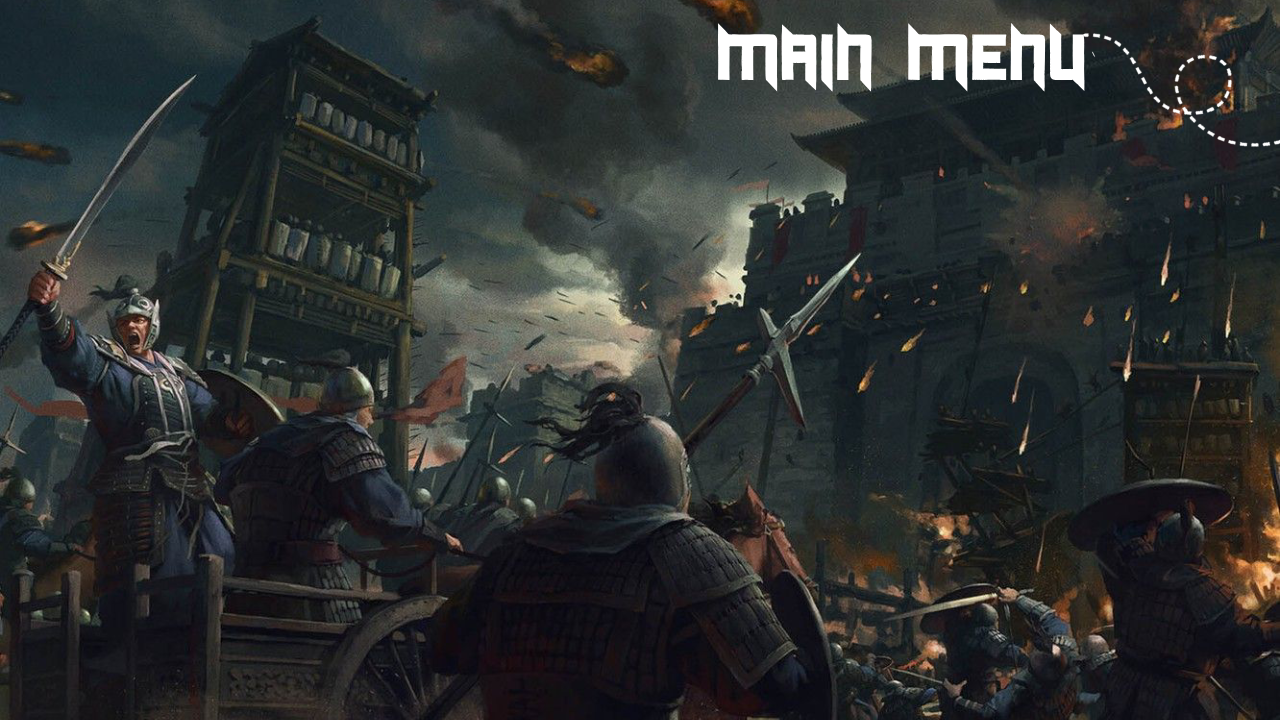
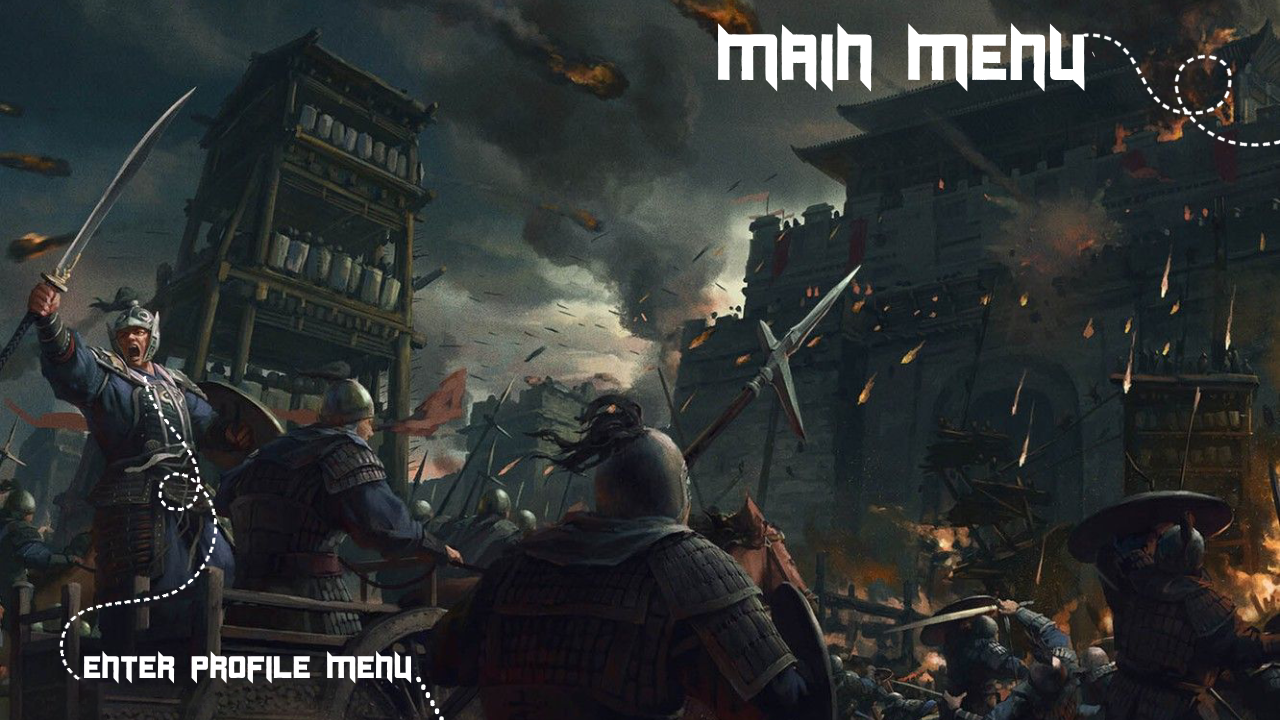
main menu completed

diff --git a/Phase 2/AP-Project/src/main/resources/css/Styles.css b/Phase 2/AP-Project/src/main/resources/css/Styles.css
@@ -148,7 +148,7 @@
     -fx-pref-height: 400px;
     -fx-spacing: 10px;
     -fx-translate-y: -50px;
-    -fx-translate-x: 50px;
+    -fx-translate-x: 1000px;
 }
 
 #allUsers {
@@ -163,4 +163,11 @@
     -fx-background-color: #774f2a;
     -fx-translate-y: 30px;
     -fx-text-fill:#fff;
+}
+
+#enterProfile {
+    -fx-translate-y: -125px;
+    -fx-translate-x: 100px;
+    -fx-pref-width: 160px;
+    -fx-pref-height: 160px;
 }

diff --git a/Phase 2/AP-Project/src/main/java/View/MainMenuGraphics.java b/Phase 2/AP-Project/src/main/java/View/MainMenuGraphics.java
@@ -15,7 +15,6 @@ import javafx.stage.Stage;
 
 import java.net.URL;
 import java.util.ArrayList;
-import java.util.List;
 import java.util.ResourceBundle;
 
 
@@ -28,6 +27,7 @@ public class MainMenuGraphics extends Application implements Initializable {
     public VBox newGameContainer;
     public ListView allUsers;
     public Button start;
+    public Button enterProfile;
     private ArrayList<CheckBox> listViewCheckBoxes = new ArrayList<>();
     @Override
     public void start(Stage stage) throws Exception {
@@ -54,6 +54,8 @@ public class MainMenuGraphics extends Application implements Initializable {
         setUsernames();
         Background newGame = new Background(MainController.setFirstPageBackground("/images/newGameContainer.png"));
         newGameContainer.setBackground(newGame);
+        Background enterProf = new Background(MainController.setFirstPageBackground("/images/enterProfile.png"));
+        enterProfile.setBackground(enterProf);
         allUsers.setEditable(false);
     }
 
@@ -93,5 +95,19 @@ public class MainMenuGraphics extends Application implements Initializable {
         }
         selectedUsernames.add(RegisterLoginController.getCurrentUser().getUsername());
         return selectedUsernames;
+    }
+
+    public void enterProfileMenu(MouseEvent mouseEvent) throws Exception {
+        new FirstPage().start(FirstPage.stage);
+    }
+
+    public void profileHover(MouseEvent mouseDragEvent) {
+        Background enterProf = new Background(MainController.setFirstPageBackground("/images/enterProfile2.png"));
+        enterProfile.setBackground(enterProf);
+    }
+
+    public void profileUnhove(MouseEvent mouseEvent) {
+        Background enterProf = new Background(MainController.setFirstPageBackground("/images/enterProfile.png"));
+        enterProfile.setBackground(enterProf);
     }
 }
